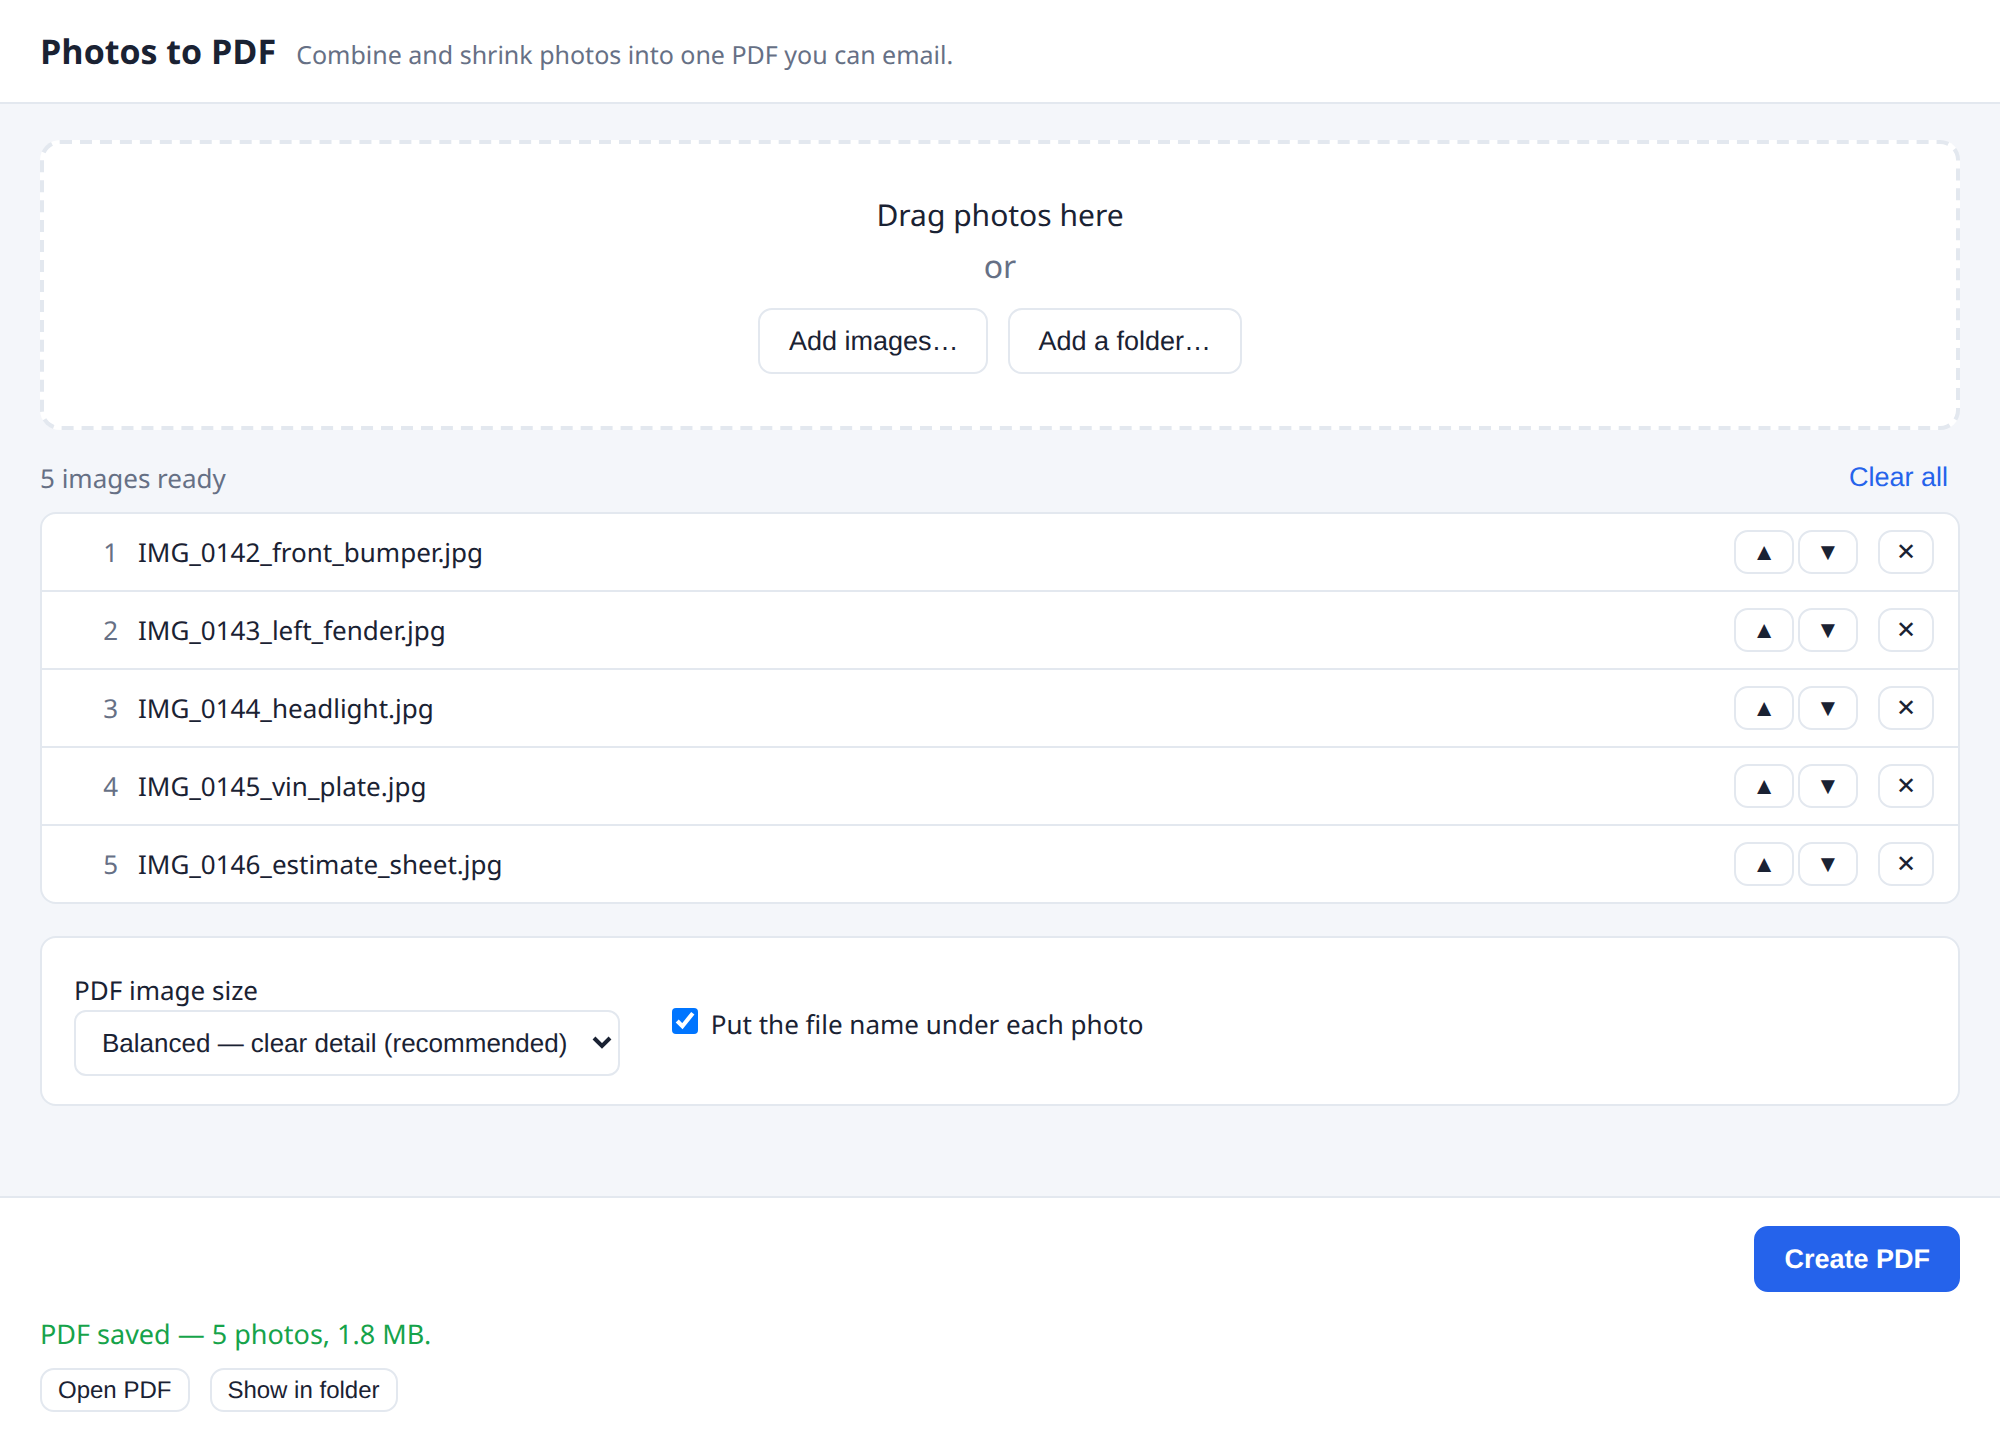
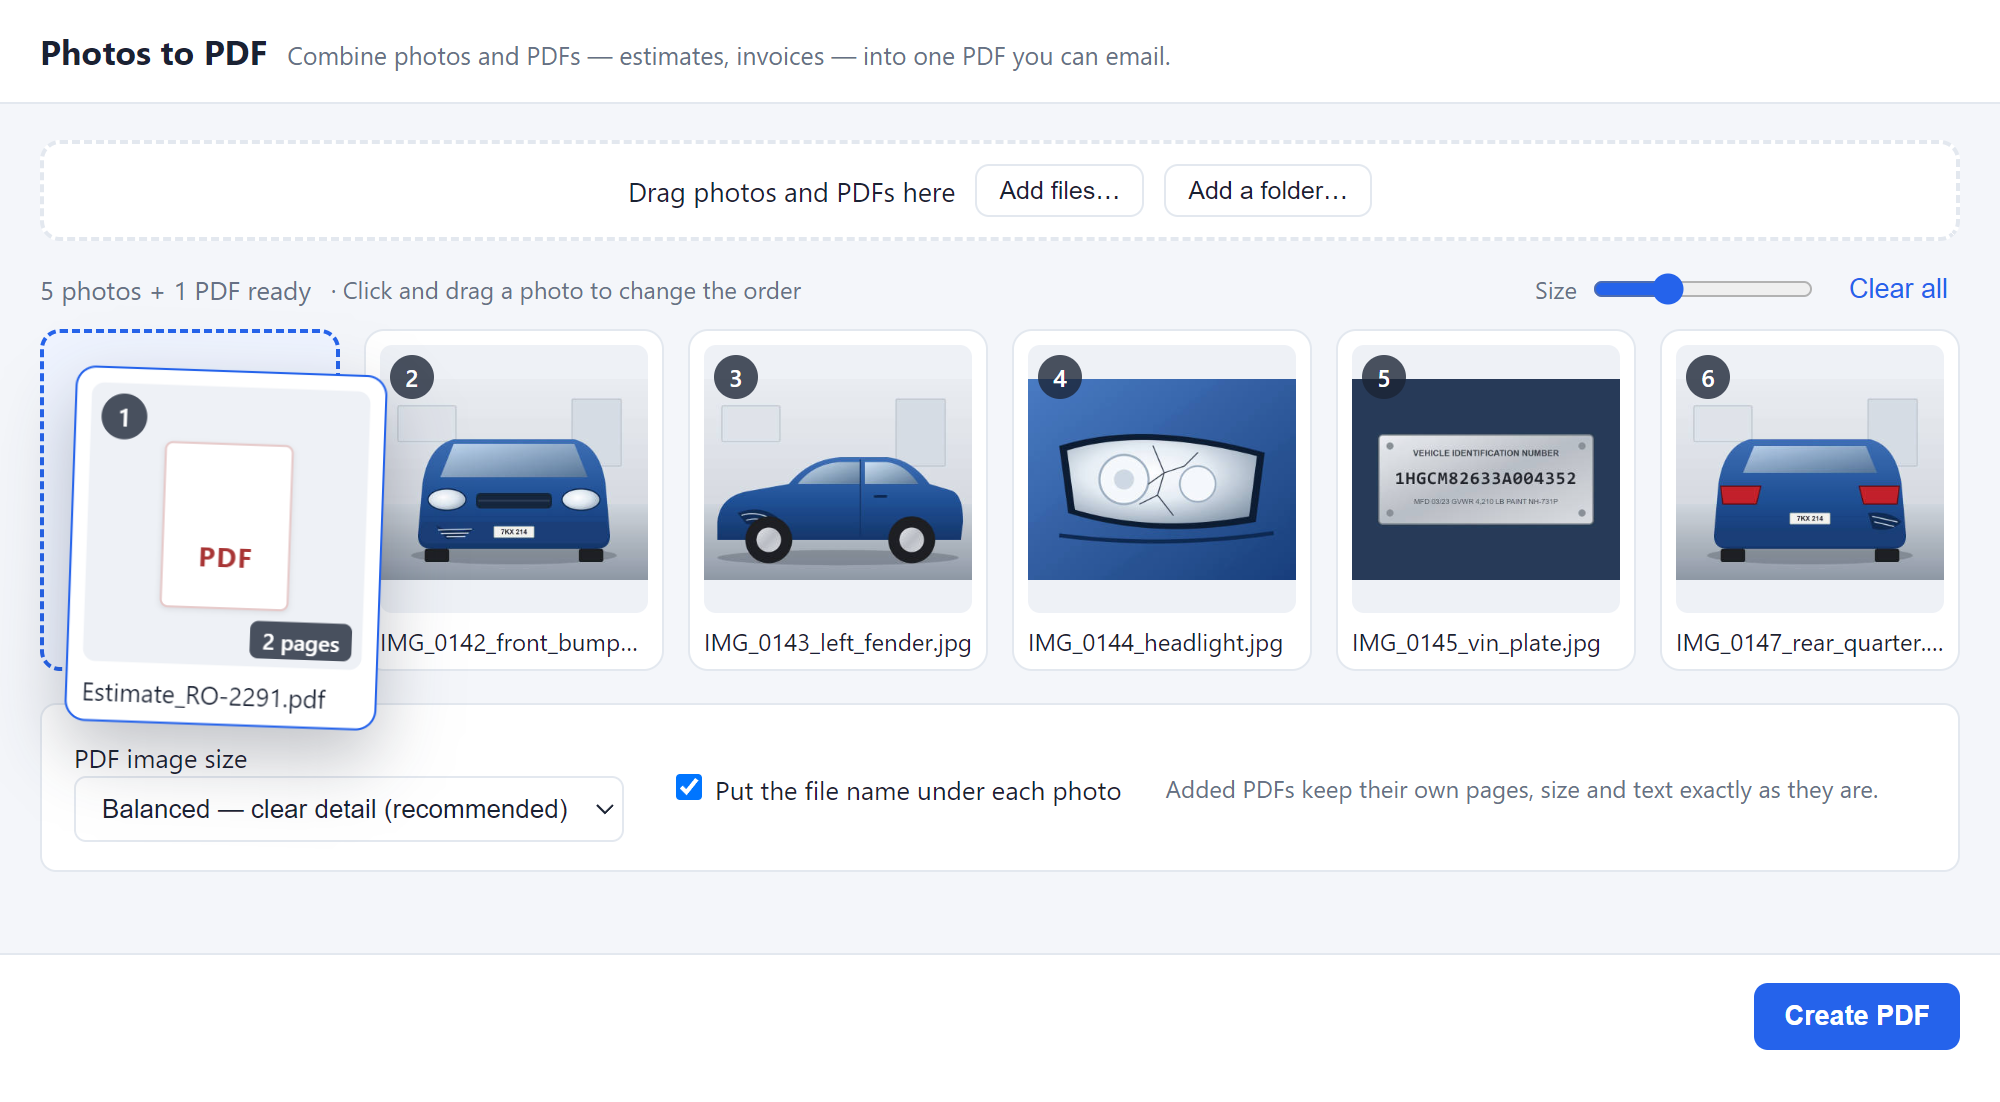
Update README screenshots for the reorder grid
The old screenshot showed the plain file list with up/down arrows. The new
one is taken mid-drag, with an estimate PDF being carried to page 1 while
the photo tiles shift aside.

Three more show the rest of the flow under "Using it": the empty start
screen, large previews with an unreadable file flagged in red, and the
result after Create PDF.

diff --git a/README.md b/README.md
@@ -8,7 +8,7 @@ Drag in your images and any PDFs (estimates, invoices, reports), pick a size, ge
 single compressed document. No internet, no account, no upload. Everything happens
 on your computer.
 
-![Photos to PDF](docs/screenshot.png)
+![Photos to PDF: dragging an estimate PDF to the front, between preview tiles of damage photos](docs/screenshot.png)
 
 </div>
 
@@ -96,6 +96,19 @@ Grab the latest build from the [**Releases**](../../releases) page.
    photos — added PDFs are never touched.
 5. Click **Create PDF** and choose where to save it.
 6. **Open PDF** or **Show in folder** — done.
+
+<table>
+  <tr>
+    <td width="33%"><img src="docs/screenshot-empty.png" alt="The start screen: a drop area with Add files and Add a folder buttons"></td>
+    <td width="33%"><img src="docs/screenshot-large.png" alt="Large previews, with a damaged photo flagged in red before export"></td>
+    <td width="33%"><img src="docs/screenshot-saved.png" alt="After Create PDF: PDF saved, with Open PDF and Show in folder buttons"></td>
+  </tr>
+  <tr>
+    <td><sub>Drop files in, or pick them.</sub></td>
+    <td><sub>Drag the <b>Size</b> slider for bigger previews. Files that can't be read are flagged before you export.</sub></td>
+    <td><sub>One PDF, ready to email.</sub></td>
+  </tr>
+</table>
 
 Missing or unreadable files are skipped and reported with the reason; they won't
 stop the rest. Password‑protected PDFs can't be merged — remove the password first.
